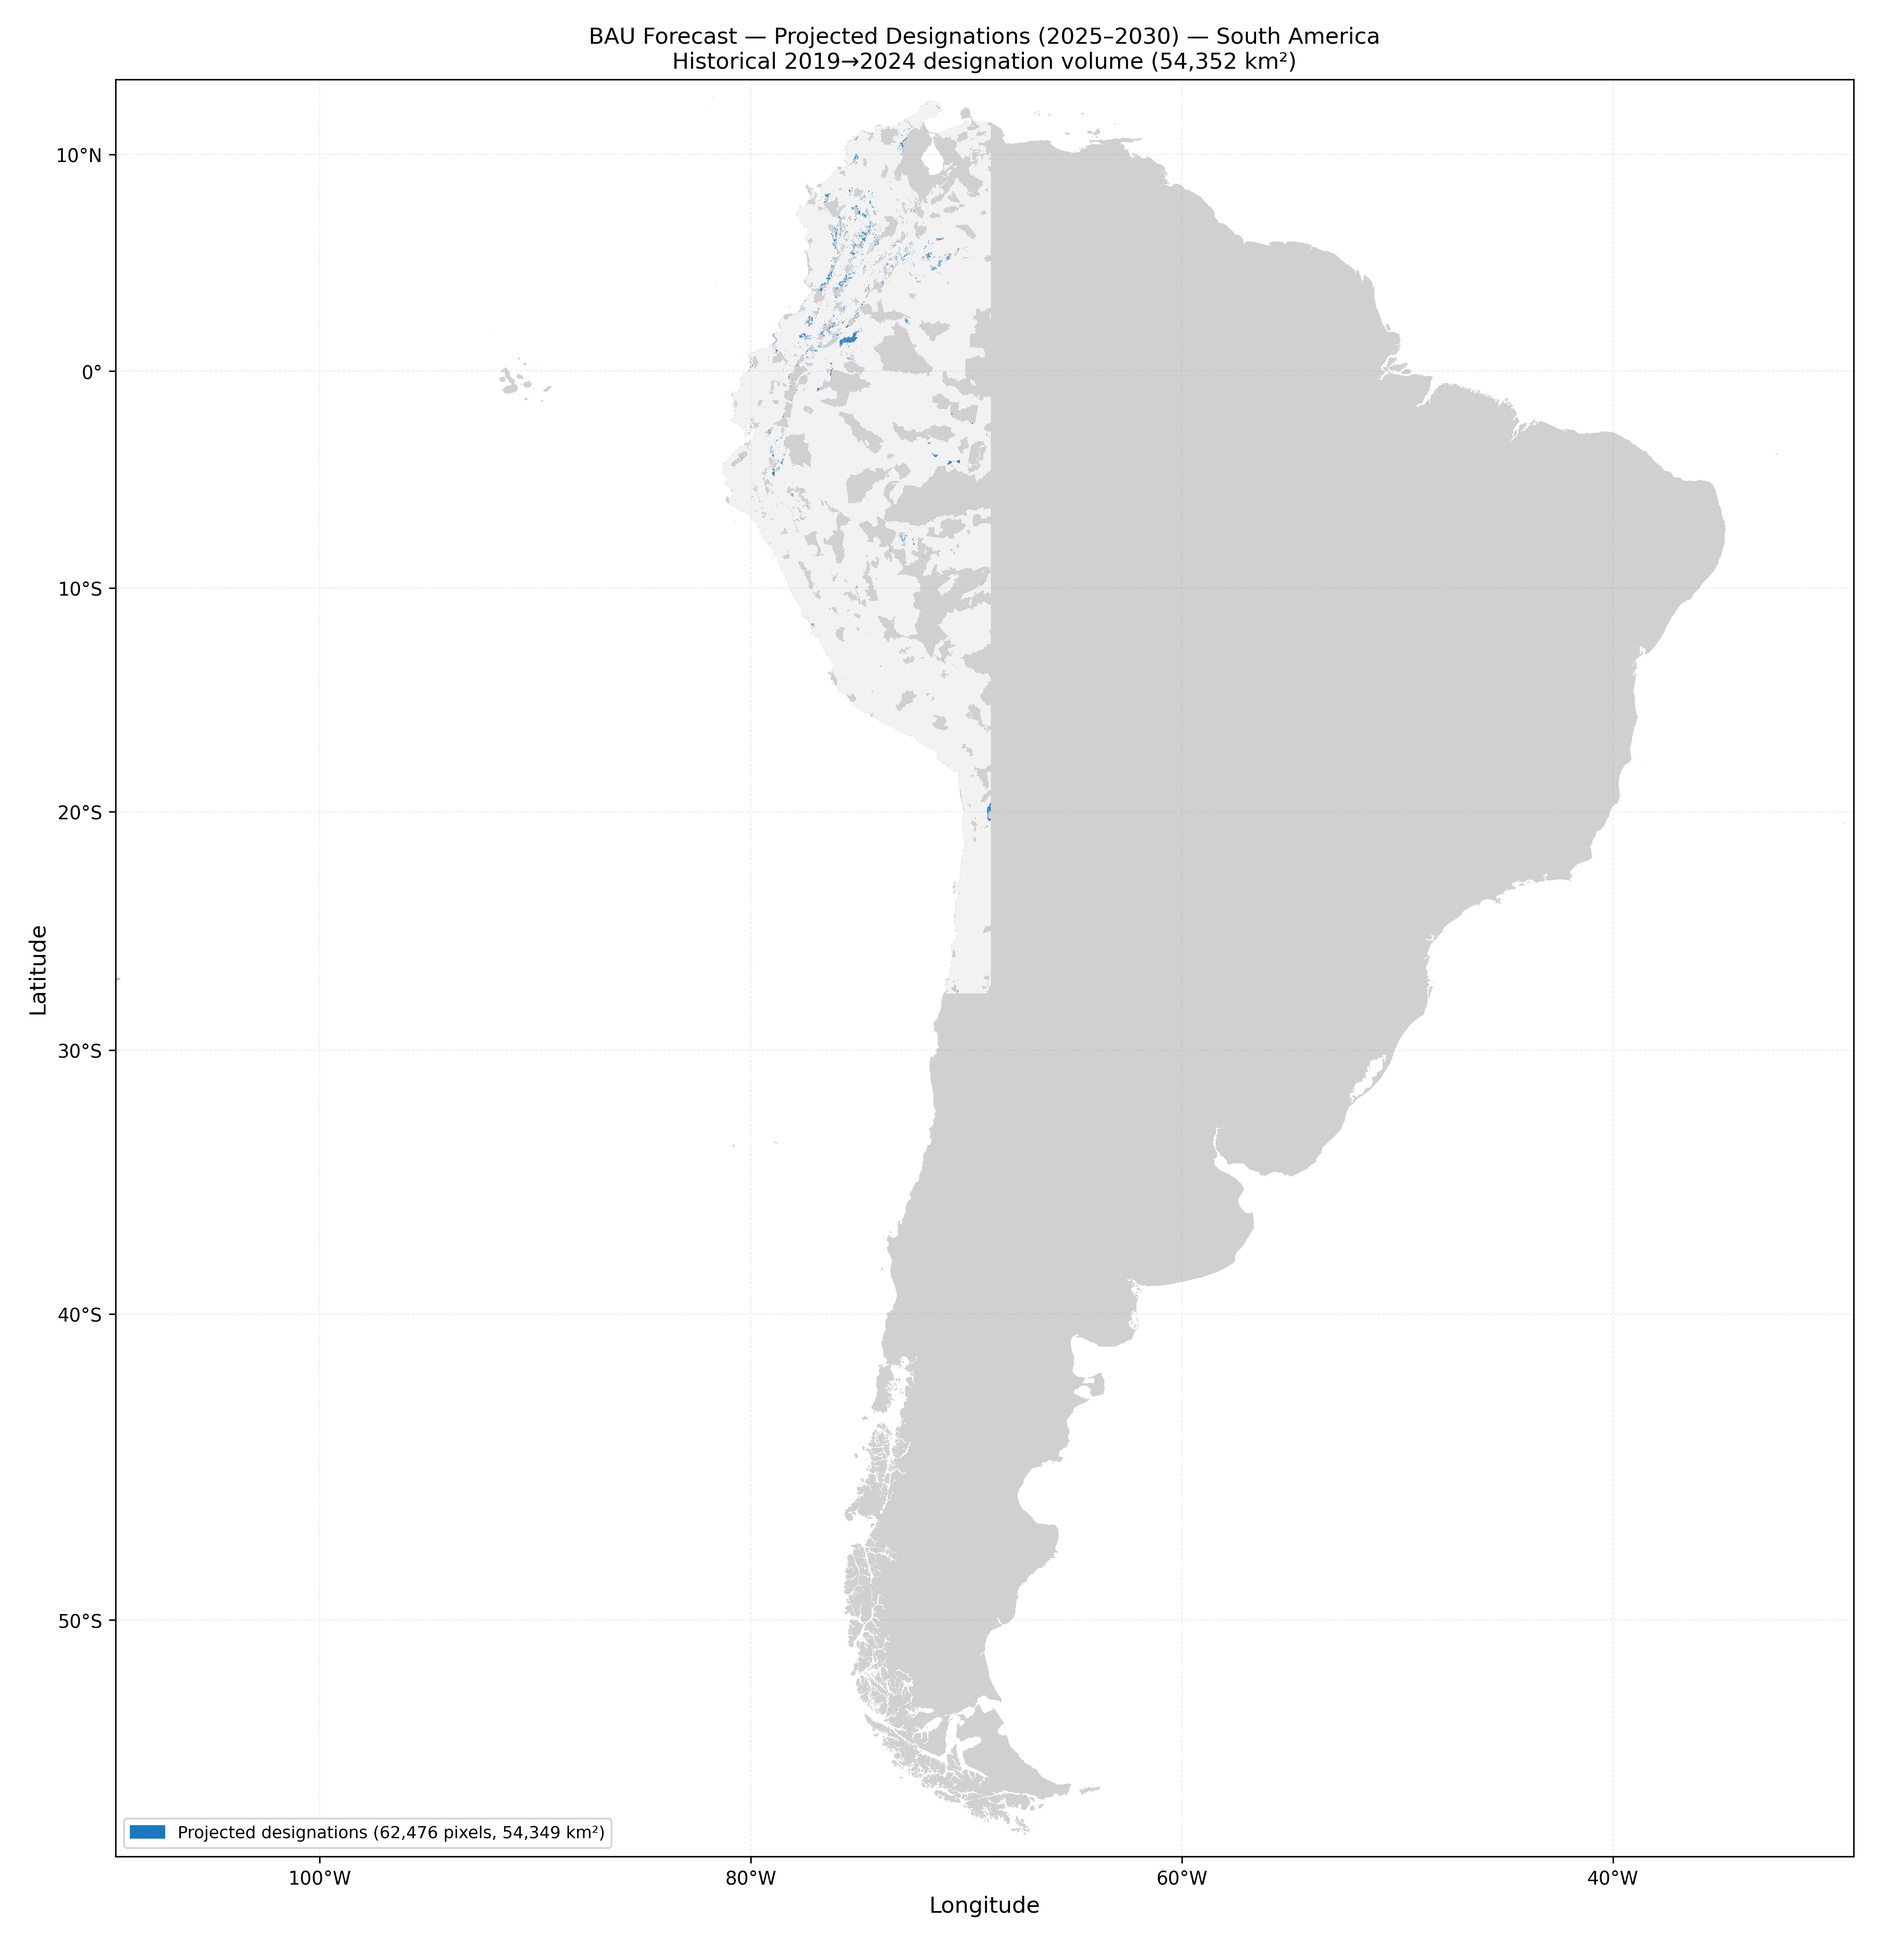
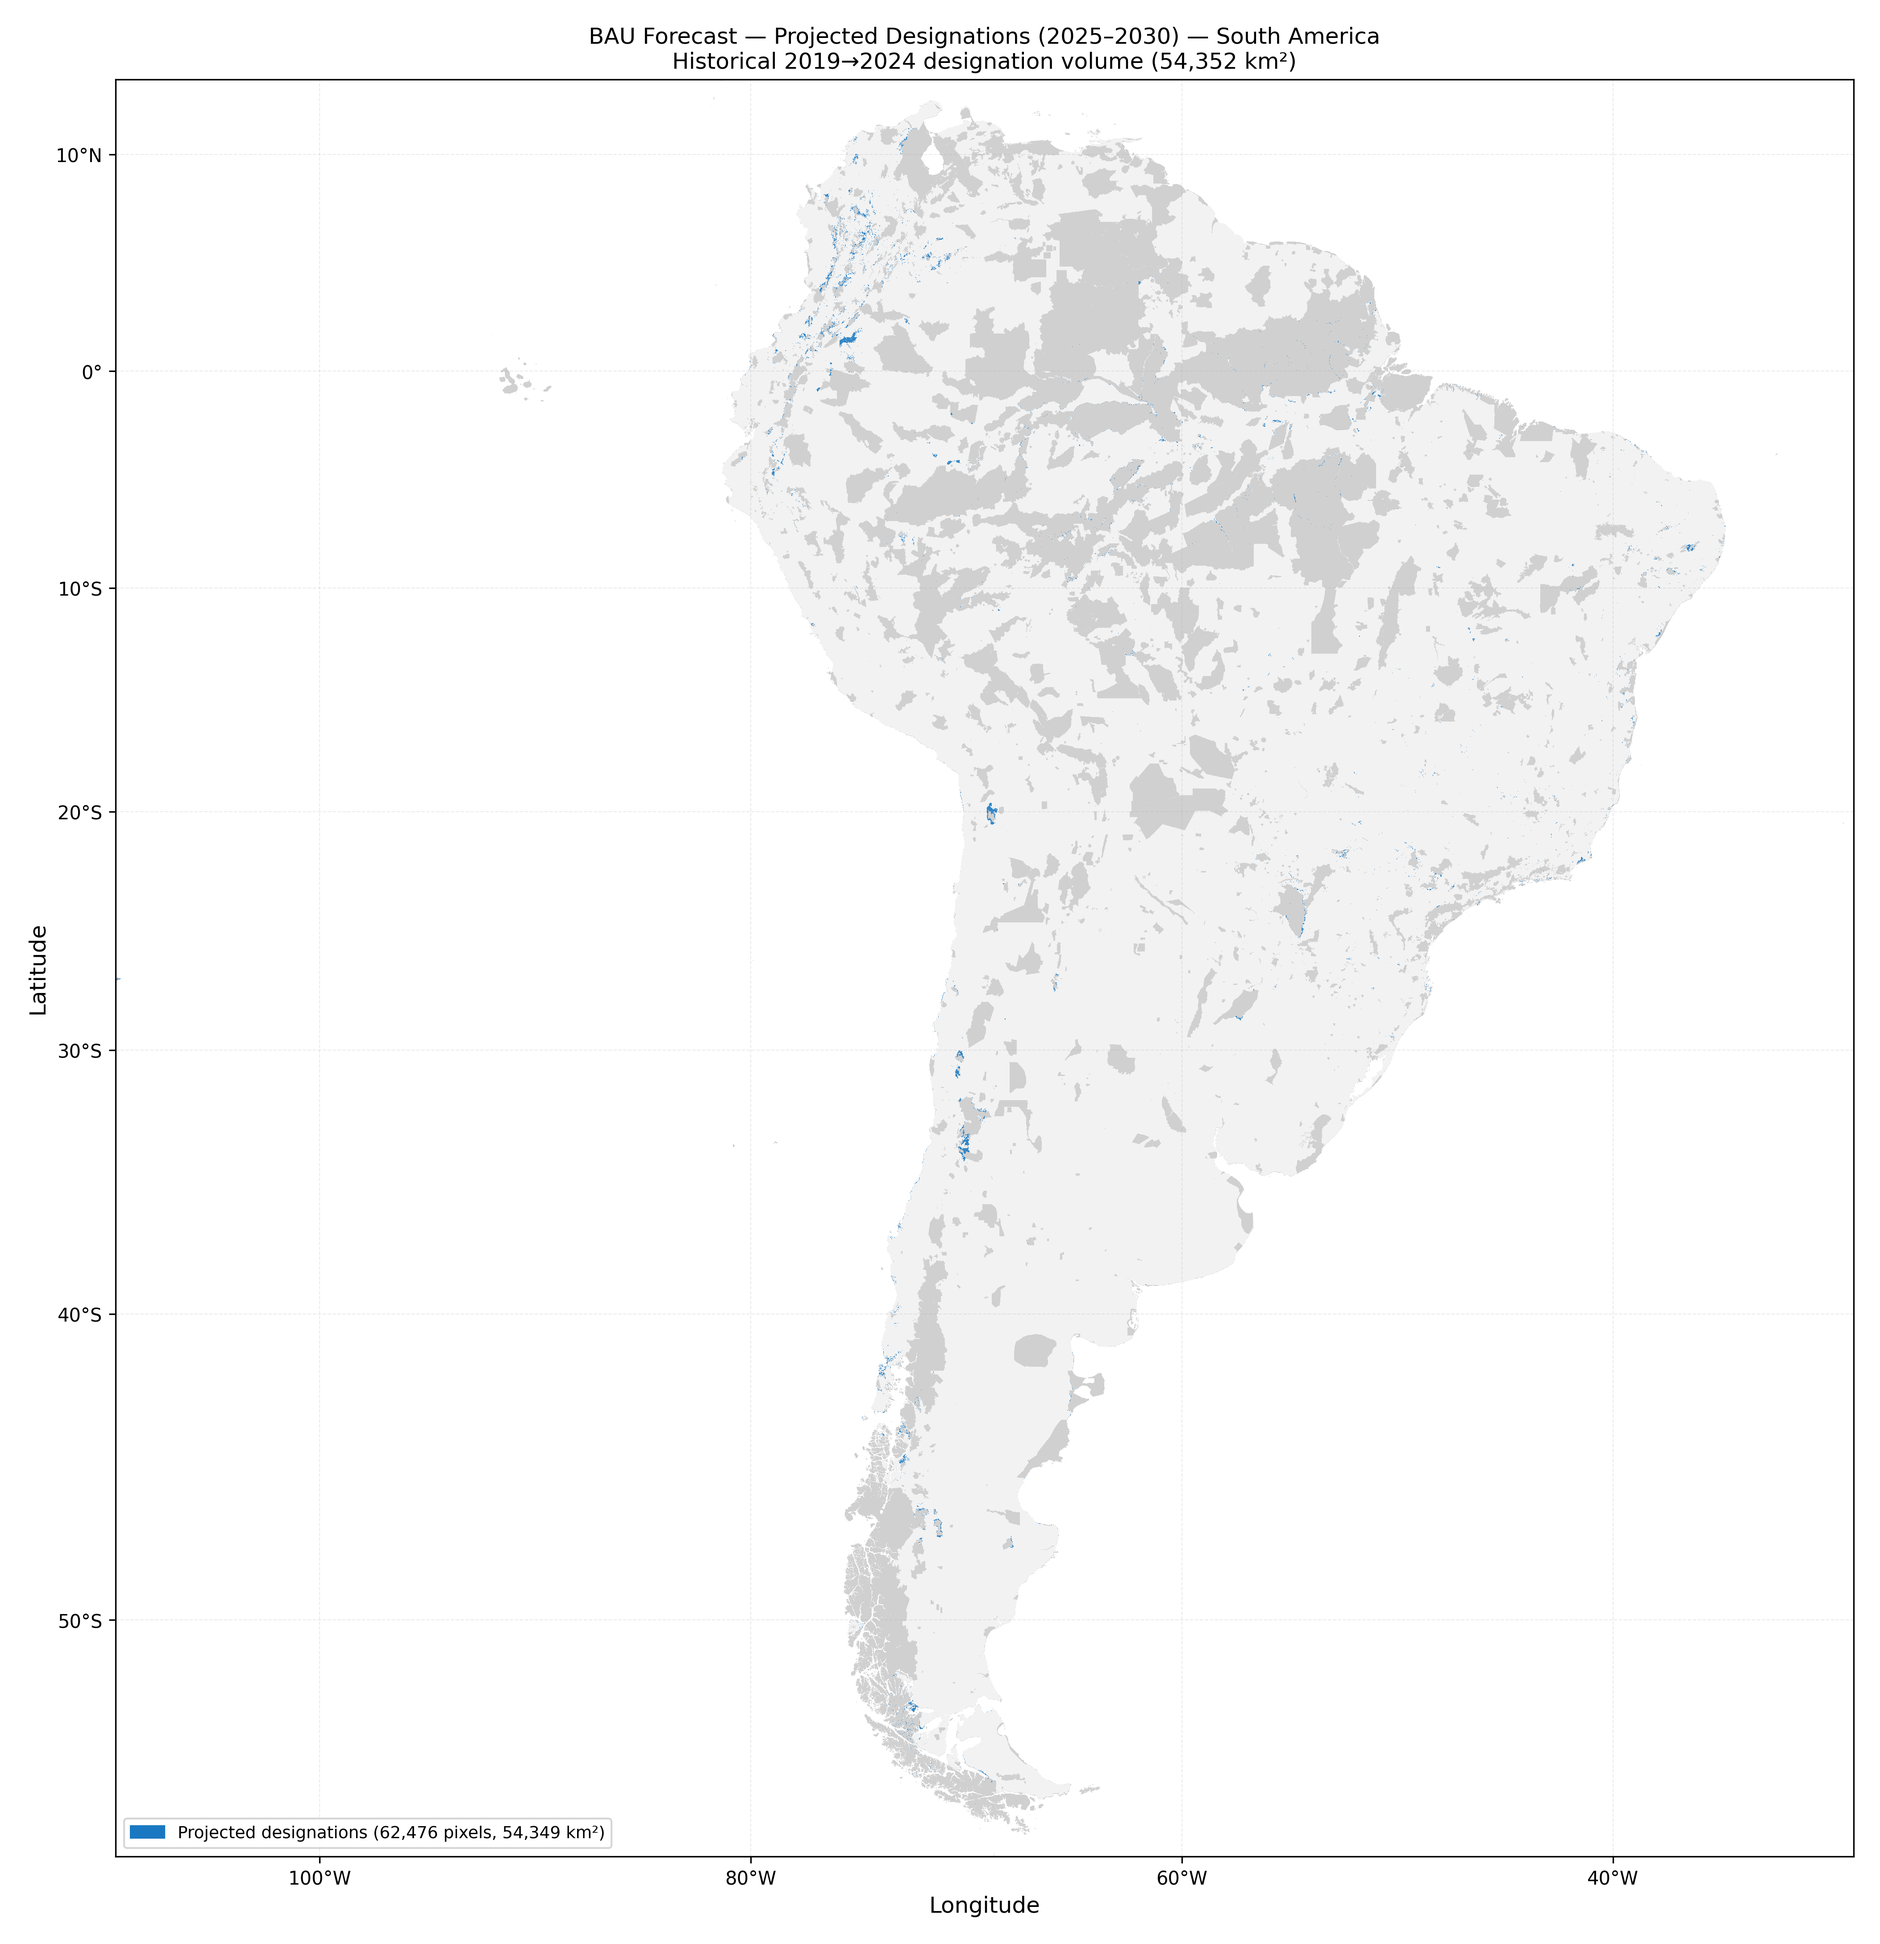
minor improvements

Changed region(s): [[0.4665, 0.0625, 0.933, 0.9371]]

diff --git a/scripts/regions/shared/forward/results_core.py b/scripts/regions/shared/forward/results_core.py
@@ -2004,12 +2004,17 @@ def _create_alignment_map(
     total_gap_km2         = float(area[gap].sum())
     total_misdirected_km2 = float(area[misdirected].sum())
     total_priority_km2    = float(area[priority].sum())
-    alignment_pct = total_sweet_km2 / max(total_priority_km2, 1.0) * 100
+    total_designated_km2  = float(area[full].sum())
+    # We want: "How focused are new 30×30 designations on the priority layer?"
+    # i.e., % of the 30×30 establishment area that falls inside the priority mask.
+    alignment_pct = total_sweet_km2 / max(total_designated_km2, 1.0) * 100
 
     print(f"  Sweet spots (both):    {total_sweet_km2:,.0f} km²")
     print(f"  Conservation gaps:     {total_gap_km2:,.0f} km²")
     print(f"  Misdirected:           {total_misdirected_km2:,.0f} km²")
-    print(f"  Alignment score:       {alignment_pct:.1f}% of {annotation_subject} covered")
+    print(f"  Total designated (30×30): {total_designated_km2:,.0f} km²")
+    print(f"  Total priority area:      {total_priority_km2:,.0f} km²")
+    print(f"  Alignment score:          {alignment_pct:.1f}% of 30×30 establishments inside {annotation_subject}")
 
     region_proj = None
     proj_bounds = _resolve_plot_bounds_3857(repo_root, DATA_SUBDIR, baseline)
@@ -2060,7 +2065,7 @@ def _create_alignment_map(
 
     ax.text(
         0.98, 0.02,
-        f"Alignment score: {alignment_pct:.1f}%\nof {annotation_subject} covered\nby 30×30 scenario",
+        f"Alignment score: {alignment_pct:.1f}%\nof 30×30 establishments\ninside {annotation_subject}",
         transform=ax.transAxes, fontsize=9, ha="right", va="bottom",
         bbox=dict(boxstyle="round,pad=0.4", fc="lightyellow", alpha=0.85, ec="gray"),
     )

diff --git a/scripts/regions/shared/results/results_core.py b/scripts/regions/shared/results/results_core.py
@@ -1159,17 +1159,19 @@ def points_to_raster(x: np.ndarray, y: np.ndarray, values: np.ndarray,
         target_resolution: Target resolution in same units as coordinates. If None, auto-detects from data.
         agg_func: Aggregation for points in same cell: 'mean' (default) or 'max'.
                   Use 'max' for categorical rasters so overlap wins (e.g. risk map).
-        extent_bounds: Optional (xmin, xmax, ymin, ymax) in the same CRS as x/y.
+        extent_bounds: Optional (xmin, ymin, xmax, ymax) in the same CRS as x/y
+            (standard GIS / rasterio bounding-box order).
             When set, the raster grid covers this box exactly (no extra padding),
             so stacked map layers share the same geometry.
     
     Returns:
         Tuple of (raster_array, extent) where extent is (xmin, xmax, ymin, ymax)
-        Raster array has shape (nrows, ncols) and may contain NaN for empty cells
+        (Matplotlib imshow order). Raster array has shape (nrows, ncols) and may
+        contain NaN for empty cells.
     """
     # Calculate bounds
     if extent_bounds is not None:
-        x_min, x_max, y_min, y_max = extent_bounds
+        x_min, y_min, x_max, y_max = extent_bounds  # GIS order: left, bottom, right, top
     elif len(x) > 0:
         x_min, x_max = float(x.min()), float(x.max())
         y_min, y_max = float(y.min()), float(y.max())

diff --git a/scripts/regions/shared/forward/config.py b/scripts/regions/shared/forward/config.py
@@ -28,7 +28,7 @@ PROFILE = {
         ],
         "wdpa_2024_filename": "WDPA_SA_1km_2024.tif",
         "wdpa_2019_filename": "WDPA_SA_1km_2019.tif",
-        "probability_map_percentile_min": 40,
+        "probability_map_percentile_min": 37,
         "probability_map_percentile_max": 99.5,
         "probability_map_transformation": "linear",
         "probability_map_display_gamma": 1.0,
